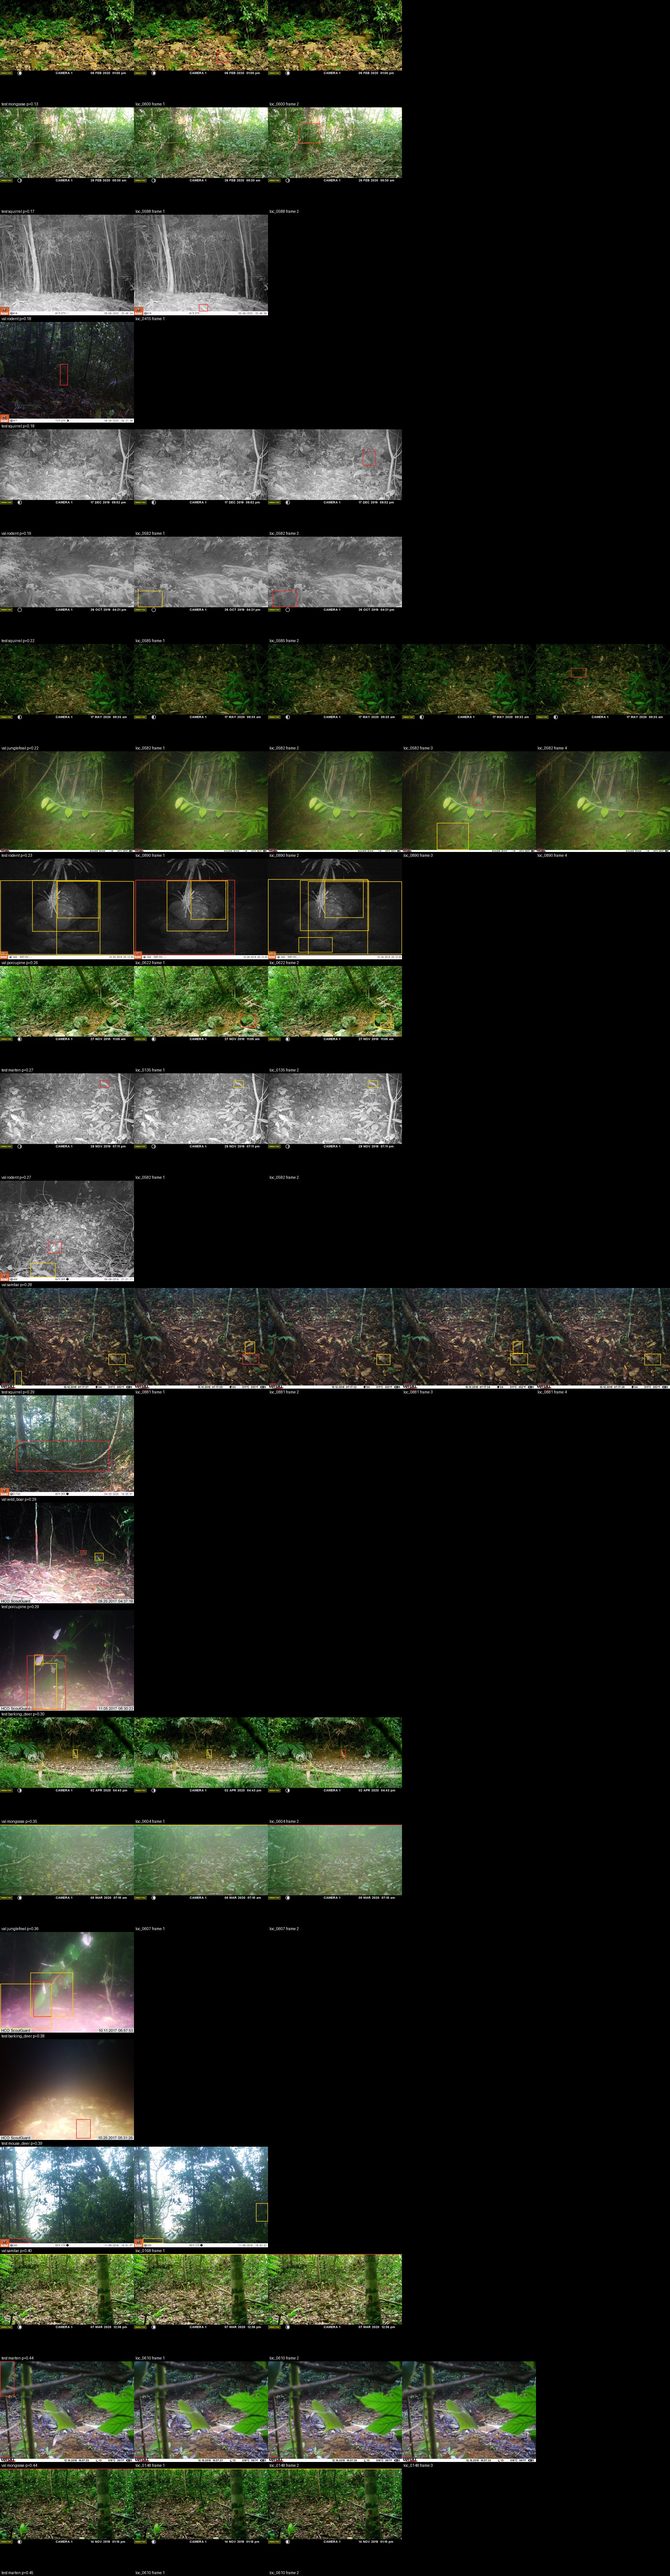
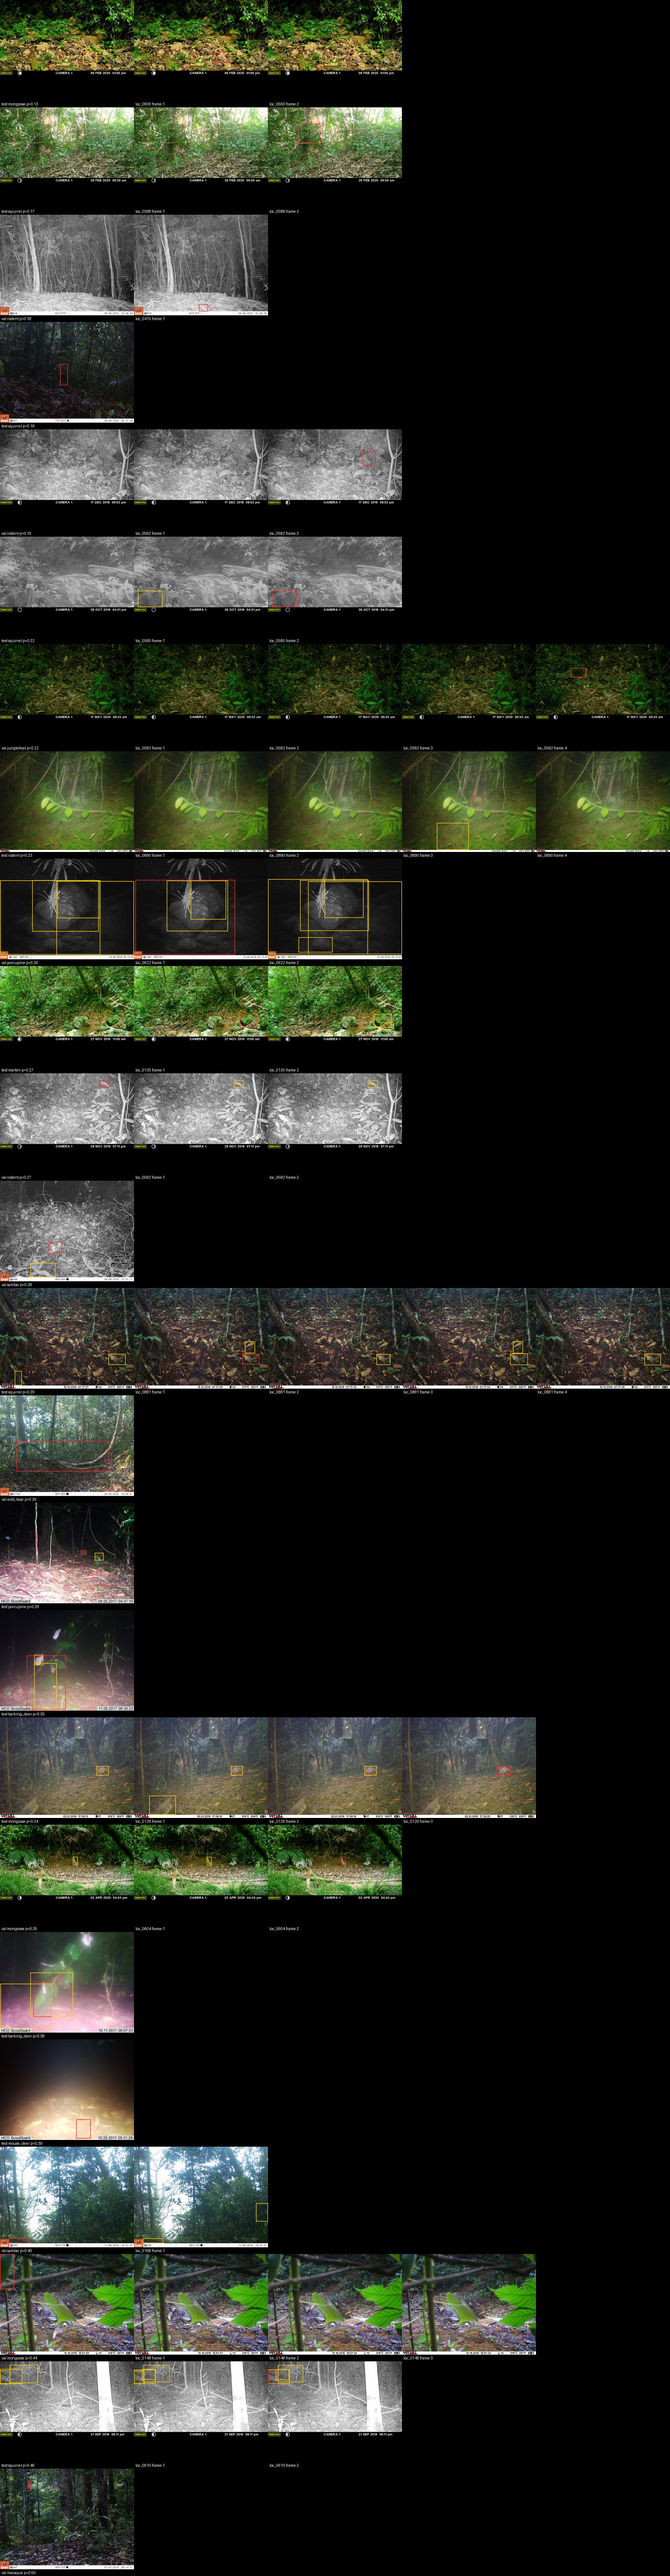
drop leftover padding strips from phase 2 crops, redo the numbers
has_area only dropped boxes of exactly zero height. strips ending a
pixel or two inside the frame survived: full-width, under 16 px tall,
conf <= 0.17, 1,531 of 23,643 crops (192 in training background, 45 in
scored test, 284 in event eval). 06 now drops boxes with a side under
16 px, after crop ids are set so real crops keep theirs.

crop scores barely move (probe macro f1 0.887 -> 0.886, convnext 0.776
-> 0.775 without retraining): the strips were easy background. events
do move: in 4 animal test events a strip was the only box (no-box 25 ->
29, max recall 94% -> 93%), and 6 of the 30 "classifier rejected"
misses were strips, so detector misses are 59 of 83, not 53. at 90%
recall speciesnet now removes 80.7% of empties vs the probe's 74.0%.

the review export now refuses to run if it would move reviewed ids to
other crops (re-exporting from the new predictions would hit 121).

Changed region(s): [[0.0, 0.875, 0.8089, 1.0], [0.0, 0.6562, 0.8089, 0.75]]

diff --git a/scripts/22_export_review.py b/scripts/22_export_review.py
@@ -42,6 +42,7 @@ import numpy as np
 import pandas as pd
 
 from ghats.config import load_config
+from ghats.crops import MIN_BOX_PX, box_side_px
 from ghats.review import audit_ranks, shortlists, species_uncertainty, split_catalogue
 
 SCHEMA = """
@@ -106,12 +107,9 @@ def species_rows(cfg: dict) -> pd.DataFrame:
     )
 
 
-# Shorter box side in frame pixels below which a box is a padding phantom. The phantoms in the
-# Phase 2 test crops are all under 4 px; the smallest real box is far above 16.
-PHANTOM_PX = 8
-
-
 def phantom_boxes(frame_paths: pd.Series, boxes: pd.Series) -> np.ndarray:
+    """Padding phantoms (see ghats.crops.MIN_BOX_PX); crops made before 06 dropped them
+    are still in older predictions."""
     from PIL import Image
 
     out = []
@@ -119,10 +117,8 @@ def phantom_boxes(frame_paths: pd.Series, boxes: pd.Series) -> np.ndarray:
         if not isinstance(f, str) or not isinstance(b, str):
             out.append(False)
             continue
-        x1, y1, x2, y2 = json.loads(b)
         with Image.open(f) as im:  # reads the header only
-            w, h = im.size
-        out.append(min((x2 - x1) * w, (y2 - y1) * h) < PHANTOM_PX)
+            out.append(box_side_px(json.loads(b), *im.size) < MIN_BOX_PX)
     return np.array(out)
 
 
@@ -188,6 +184,21 @@ def reid_tables(cfg: dict) -> tuple[pd.DataFrame, pd.DataFrame, pd.DataFrame]:
     return catalogue, items_df, cands
 
 
+def check_reviewed_ids(con: sqlite3.Connection, table: str, reviews: str, new: pd.DataFrame) -> None:
+    """Reviews point at item ids; stop if a re-export would move a reviewed id to another crop."""
+    have = {r[0] for r in con.execute("SELECT name FROM sqlite_master WHERE type = 'table'")}
+    if table not in have or reviews not in have:
+        return
+    old = dict(con.execute(f"SELECT id, crop_id FROM {table} WHERE id IN (SELECT item_id FROM {reviews})").fetchall())
+    now = dict(zip(new["id"], new["crop_id"].astype(str)))
+    moved = [i for i, c in old.items() if now.get(i) != c]
+    if moved:
+        raise SystemExit(
+            f"{len(moved)} reviewed {table} ids would point at different crops after this export "
+            f"(first: {moved[:5]}). Back up {reviews} and remap it by crop_id first."
+        )
+
+
 def main() -> int:
     ap = argparse.ArgumentParser(description=__doc__, formatter_class=argparse.RawDescriptionHelpFormatter)
     ap.add_argument("--config", default="configs/phase5.yaml")
@@ -205,6 +216,9 @@ def main() -> int:
     db = Path(cfg["db"])
     db.parent.mkdir(parents=True, exist_ok=True)
     con = sqlite3.connect(db)
+    species.insert(0, "id", np.arange(1, len(species) + 1))
+    check_reviewed_ids(con, "species_items", "species_reviews", species)
+    check_reviewed_ids(con, "reid_items", "reid_reviews", items)
     with con:
         con.executescript(SCHEMA)
         species.to_sql("species_items", con, if_exists="append", index=False)

diff --git a/scripts/06_make_crops.py b/scripts/06_make_crops.py
@@ -28,7 +28,7 @@ from PIL import Image
 from tqdm import tqdm
 
 from ghats.config import load_config
-from ghats.crops import BACKGROUND, SPLITS, crop_box, label_boxes, split_locations
+from ghats.crops import BACKGROUND, MIN_BOX_PX, SPLITS, box_side_px, crop_box, label_boxes, split_locations
 
 
 def load_animal_boxes(path: Path, max_per_image: int) -> pd.DataFrame:
@@ -43,6 +43,11 @@ def load_animal_boxes(path: Path, max_per_image: int) -> pd.DataFrame:
             for k, d in enumerate(animal[:max_per_image]):
                 rows.append({"image_id": str(rec["image_id"]), "box": k, "conf": d["conf"], "bbox": d["bbox"]})
     return pd.DataFrame(rows).drop_duplicates(["image_id", "box"], keep="last")
+
+
+def frame_size(path: str) -> tuple[int, int]:
+    with Image.open(path) as im:  # reads the header only
+        return im.size
 
 
 def write_crops(path: str, crops: list[tuple[str, list[float]]], out_dir: Path, c: dict) -> int:
@@ -87,6 +92,14 @@ def main() -> int:
     crops = label_boxes(boxes, c["min_conf"], c["train_min_conf"])
     crops["split"] = crops["location"].map(splits)
     crops["crop_id"] = crops["image_id"] + "_" + crops["box"].astype(str)
+    # Drop padding phantoms only now, after the ids are set: box numbers are confidence ranks
+    # within a frame, and renumbering would point real crops at a phantom's saved image.
+    with ThreadPoolExecutor(args.threads) as pool:
+        sizes = dict(zip(crops["local_path"].unique(), pool.map(frame_size, crops["local_path"].unique())))
+    side = [box_side_px(b, *sizes[p]) for b, p in zip(crops["bbox"], crops["local_path"])]
+    phantom = pd.Series(side, index=crops.index) < MIN_BOX_PX
+    print(f"dropped {phantom.sum():,} padding-phantom boxes (shorter side < {MIN_BOX_PX} px)")
+    crops = crops[~phantom]
 
     out = Path(args.out)
     img_dir = out / "images"

diff --git a/src/ghats/crops.py b/src/ghats/crops.py
@@ -21,6 +21,12 @@ import pandas as pd
 
 BACKGROUND = "background"
 SPLITS = ("train", "val", "test")
+# Shorter box side, in frame pixels, below which a box is a letterbox-padding phantom.
+# has_area() drops the boxes that clamp to zero height, but ones that end a pixel or two
+# inside the frame survive: full-width strips along the top or bottom edge, conf <= 0.17.
+# In the Phase 2 detections every animal box under 16 px is one of those; nothing that
+# small could be classified anyway.
+MIN_BOX_PX = 16
 
 
 def crop_box(bbox: Sequence[float], w: int, h: int, pad: float = 0.1, min_side: int = 32) -> tuple[int, int, int, int]:
@@ -36,6 +42,11 @@ def crop_box(bbox: Sequence[float], w: int, h: int, pad: float = 0.1, min_side: 
     left, right = max(0, round(x1 - grow_x)), min(w, round(x2 + grow_x))
     top, bottom = max(0, round(y1 - grow_y)), min(h, round(y2 + grow_y))
     return left, top, max(right, left + 1), max(bottom, top + 1)
+
+
+def box_side_px(bbox: Sequence[float], w: int, h: int) -> float:
+    """Shorter side of a normalised [x1, y1, x2, y2] box, in pixels of a w x h frame."""
+    return min((bbox[2] - bbox[0]) * w, (bbox[3] - bbox[1]) * h)
 
 
 def label_boxes(boxes: pd.DataFrame, min_conf: float, train_min_conf: float) -> pd.DataFrame:

diff --git a/tests/test_crops.py b/tests/test_crops.py
@@ -1,6 +1,13 @@
 import pandas as pd
 
-from ghats.crops import BACKGROUND, crop_box, label_boxes, split_locations
+from ghats.crops import BACKGROUND, MIN_BOX_PX, box_side_px, crop_box, label_boxes, split_locations
+
+
+def test_padding_strip_is_below_min_box_size():
+    # Real case: a full-width strip one pixel tall along the top of a 4608 x 2592 frame.
+    assert box_side_px([0.0002, 0.0, 0.9973, 0.0003], 4608, 2592) < MIN_BOX_PX
+    # A small animal far from the camera is still kept.
+    assert box_side_px([0.50, 0.50, 0.51, 0.52], 3840, 2880) >= MIN_BOX_PX
 
 
 class TestCropBox:

diff --git a/reports/phase2/event_eval.md b/reports/phase2/event_eval.md
@@ -3,57 +3,57 @@
 Test: 566 events (416 animal, 150 empty) from 114 cameras not used in training.
 Each threshold is the highest that keeps the target share of animal events on val, applied unchanged to test.
 
-25 of 416 animal test events have no detector box at or above the crop floor, so no method can keep more than 94.0% of them. Targets above what val allows are marked out of reach.
+29 of 416 animal test events have no detector box at or above the crop floor, so no method can keep more than 93.0% of them. Targets above what val allows are marked out of reach.
 
 Cells: share of empty test events removed (test recall of animal events in brackets).
 Thresholds, workload and missed counts are in event_eval.csv.
 
 | method, events scored by | 98% target | 95% target | 90% target |
 |---|---|---|---|
-| detector, best box | out of reach | out of reach | 54.7% (92.3%) |
-| detector, 2nd box | out of reach | out of reach | 49.3% (89.9%) |
-| ours, best box | out of reach | out of reach | 69.3% (89.9%) |
-| ours, 2nd box | out of reach | out of reach | 56.7% (89.9%) |
-| ours x detector, best box | out of reach | out of reach | 60.0% (92.1%) |
-| ours x detector, 2nd box | out of reach | out of reach | 55.3% (89.4%) |
-| probe, best box | out of reach | out of reach | 74.0% (90.9%) |
-| probe, 2nd box | out of reach | out of reach | 53.3% (91.8%) |
+| detector, best box | out of reach | out of reach | 55.3% (91.1%) |
+| detector, 2nd box | out of reach | out of reach | 52.7% (90.6%) |
+| ours, best box | out of reach | out of reach | 70.7% (89.9%) |
+| ours, 2nd box | out of reach | out of reach | 58.7% (90.4%) |
+| ours x detector, best box | out of reach | out of reach | 63.3% (91.1%) |
+| ours x detector, 2nd box | out of reach | out of reach | 57.3% (89.4%) |
+| probe, best box | out of reach | out of reach | 74.0% (91.3%) |
+| probe, 2nd box | out of reach | out of reach | 54.0% (92.1%) |
 | probe x detector, best box | out of reach | out of reach | 67.3% (91.6%) |
-| probe x detector, 2nd box | out of reach | out of reach | 52.0% (91.1%) |
-| speciesnet, best box | out of reach | out of reach | 76.7% (91.3%) |
-| speciesnet, 2nd box | out of reach | out of reach | 66.7% (90.1%) |
-| speciesnet x detector, best box | out of reach | out of reach | 69.3% (91.8%) |
-| speciesnet x detector, 2nd box | out of reach | out of reach | 64.7% (90.9%) |
-| ind-ads, best box | out of reach | out of reach | 63.3% (90.9%) |
-| ind-ads, 2nd box | out of reach | out of reach | 46.0% (92.1%) |
-| ind-ads x detector, best box | out of reach | out of reach | 60.7% (91.8%) |
-| ind-ads x detector, 2nd box | out of reach | out of reach | 49.3% (90.9%) |
+| probe x detector, 2nd box | out of reach | out of reach | 55.3% (91.3%) |
+| speciesnet, best box | out of reach | out of reach | 80.7% (90.9%) |
+| speciesnet, 2nd box | out of reach | out of reach | 64.7% (91.3%) |
+| speciesnet x detector, best box | out of reach | out of reach | 73.3% (91.3%) |
+| speciesnet x detector, 2nd box | out of reach | out of reach | 65.3% (90.6%) |
+| ind-ads, best box | out of reach | out of reach | 59.3% (91.1%) |
+| ind-ads, 2nd box | out of reach | out of reach | 50.7% (91.8%) |
+| ind-ads x detector, best box | out of reach | out of reach | 62.0% (91.8%) |
+| ind-ads x detector, 2nd box | out of reach | out of reach | 52.7% (90.6%) |
 
 ## Test recall by species group at the 90% threshold
 
 | group | detector, best box | detector, 2nd box | ours, best box | ours, 2nd box | probe, best box | probe, 2nd box | speciesnet, best box | speciesnet, 2nd box | ind-ads, best box | ind-ads, 2nd box |
 |---|---|---|---|---|---|---|---|---|---|---|
-| barking_deer | 100% | 94% | 94% | 94% | 97% | 97% | 97% | 97% | 97% | 100% |
+| barking_deer | 100% | 97% | 94% | 97% | 97% | 100% | 97% | 100% | 100% | 100% |
 | bear | 100% | 100% | 100% | 100% | 100% | 100% | 100% | 100% | 100% | 100% |
-| civet | 95% | 87% | 95% | 95% | 95% | 95% | 95% | 92% | 95% | 95% |
+| civet | 95% | 92% | 95% | 95% | 95% | 95% | 95% | 95% | 95% | 95% |
 | junglefowl | 96% | 92% | 96% | 96% | 96% | 96% | 96% | 96% | 96% | 96% |
-| macaque | 90% | 90% | 90% | 90% | 90% | 90% | 90% | 90% | 90% | 90% |
-| marten | 85% | 85% | 74% | 78% | 74% | 81% | 81% | 81% | 78% | 78% |
-| mongoose | 96% | 96% | 93% | 96% | 96% | 96% | 96% | 96% | 100% | 89% |
+| macaque | 87% | 87% | 90% | 90% | 90% | 90% | 90% | 90% | 90% | 90% |
+| marten | 78% | 78% | 74% | 74% | 78% | 78% | 74% | 78% | 78% | 74% |
+| mongoose | 96% | 100% | 93% | 96% | 96% | 100% | 96% | 96% | 100% | 93% |
 | mouse_deer | 98% | 100% | 98% | 100% | 98% | 100% | 100% | 95% | 98% | 100% |
-| pangolin | 90% | 90% | 90% | 70% | 90% | 90% | 90% | 80% | 90% | 90% |
-| porcupine | 96% | 93% | 93% | 89% | 96% | 96% | 96% | 89% | 93% | 96% |
-| rodent | 82% | 79% | 85% | 82% | 85% | 82% | 85% | 82% | 82% | 85% |
+| pangolin | 90% | 90% | 90% | 90% | 90% | 90% | 90% | 90% | 90% | 90% |
+| porcupine | 96% | 96% | 93% | 93% | 96% | 96% | 96% | 96% | 93% | 96% |
+| rodent | 82% | 82% | 85% | 82% | 85% | 82% | 85% | 82% | 85% | 85% |
 | sambar | 100% | 97% | 100% | 100% | 100% | 100% | 100% | 100% | 100% | 100% |
 | small_cat | 77% | 69% | 77% | 77% | 77% | 77% | 77% | 77% | 77% | 77% |
-| squirrel | 77% | 69% | 62% | 65% | 65% | 77% | 65% | 77% | 69% | 85% |
-| wild_boar | 92% | 94% | 92% | 92% | 92% | 89% | 89% | 86% | 89% | 89% |
+| squirrel | 73% | 73% | 62% | 65% | 69% | 77% | 65% | 77% | 65% | 81% |
+| wild_boar | 89% | 92% | 92% | 89% | 92% | 89% | 89% | 89% | 89% | 89% |
 
-## Crop-level F1 on test, classes every model can name (2,139 crops)
+## Crop-level F1 on test, classes every model can name (2,094 crops)
 
 | class | ours | probe | speciesnet | ind-ads |
 |---|---|---|---|---|
-| background | 0.86 | 0.92 | 0.91 | 0.89 |
+| background | 0.85 | 0.92 | 0.90 | 0.88 |
 | barking_deer | 0.82 | 0.93 | 0.95 | 0.87 |
 | bear | 0.90 | 0.95 | 0.88 | 0.55 |
 | civet | 0.78 | 0.87 | 0.86 | 0.55 |
@@ -62,8 +62,8 @@ Thresholds, workload and missed counts are in event_eval.csv.
 | mongoose | 0.51 | 0.93 | 0.94 | 0.41 |
 | pangolin | 0.84 | 0.90 | 0.86 | 0.51 |
 | porcupine | 0.82 | 0.93 | 0.89 | 0.65 |
-| sambar | 0.77 | 0.94 | 0.99 | 0.87 |
+| sambar | 0.77 | 0.95 | 0.99 | 0.88 |
 | small_cat | 0.70 | 0.77 | 0.63 | 0.25 |
 | wild_boar | 0.91 | 0.96 | 0.98 | 0.84 |
 
-Macro F1: ours 0.812, probe 0.920, speciesnet 0.903, ind-ads 0.641
+Macro F1: ours 0.810, probe 0.920, speciesnet 0.902, ind-ads 0.641

diff --git a/README.md b/README.md
@@ -143,6 +143,11 @@ Phase 2 trains a classifier on detector crops anyway, so it gets an extra
   confidence is noise (event AUC 0.53), but it gave every event, empty or not, a
   score of ~0.08. The old "98.8% recall at 0.06" came from that, not from real
   boxes. I found it while looking at Phase 2 misses (`scripts/10_miss_gallery.py`).
+  The first fix only dropped boxes of exactly zero height. Strips that end a pixel
+  or two inside the frame survived, and I only caught them when the reviewer
+  dashboard drew a 1-pixel box along the top of a photo: 1,531 of 23,643 Phase 2
+  crops. Boxes with a side under 16 px are now dropped too (every animal box that
+  small was one of these strips).
 - **The detector runs in eval mode, in batches.** PyTorch-Wildlife 1.3's
   `single_image_detection()` for the MIT model reloads the checkpoint on every call
   and leaves the network in training mode, so BatchNorm normalises each image with
@@ -182,28 +187,32 @@ on val macro F1.
 
 ### Results
 
-**Crops** (test, 2,383 crops): macro F1 **0.776**, accuracy 0.833. Best: junglefowl 0.93,
+**Crops** (test, 2,338 crops): macro F1 **0.775**, accuracy 0.830. Best: junglefowl 0.93,
 wild boar 0.91, bear 0.90. Worst: squirrel 0.46 and mongoose 0.49, small classes with
 20–50 test crops each. Background F1 is 0.84. Details in
-[`classifier_summary.md`](reports/phase2/classifier_summary.md).
+[`classifier_summary.md`](reports/phase2/classifier_summary.md) (written before the
+padding strips were removed, so it still counts 2,383 crops; the model was not retrained
+without the 192 strips in its training background, and on the cleaned test set its scores
+moved by 0.001-0.003).
 
 **Empty-event filtering** (test, 566 events from unseen cameras; each threshold is picked
 on val and applied unchanged to test):
 
 | Keep 90% of animal events | Empty events removed |
 |---|---|
-| Detector confidence (Phase 1 rule) | 54.7% |
-| Classifier: P(not background) of the best box | **69.3%** |
-| Classifier × detector | 60.0% |
+| Detector confidence (Phase 1 rule) | 55.3% |
+| Classifier: P(not background) of the best box | **70.7%** |
+| Classifier × detector | 63.3% |
 
 The classifier removes about 15 points more empty events at the same recall. Stricter
-targets are out of reach for every method: 25 of 416 animal test events (6%) have no
-detector box at all, so nothing downstream can recover them. Full table, including
+targets are out of reach for every method: 29 of 416 animal test events (7%) have no
+detector box at all, so nothing downstream can recover them. (It was 25 before the
+leftover padding strips were removed: in 4 events a strip was the only "box".) Full table, including
 per-group recall, in [`event_eval.md`](reports/phase2/event_eval.md).
 
 **Where it still fails** ([`missed_events.jpg`](reports/phase2/missed_events.jpg)).
-At the 90% threshold, 83 val/test animal events are dropped. 53 of them never had a box
-(a detector miss), and 30 had boxes the classifier called background. The detector is
+At the 90% threshold, 83 val/test animal events are dropped. 59 of them never had a box
+(a detector miss), and 24 had boxes the classifier called background. The detector is
 the bigger bottleneck, and it is worst on small animals: rodents, squirrels and martens.
 
 ### Against off-the-shelf classifiers
@@ -214,11 +223,11 @@ val/test boxes and maps their labels onto my groups:
 65M+ training images) and the Addax Data Science Central India model (IND-ADS, 40 labels,
 CC-BY-NC, used for evaluation only).
 
-| Model | Macro F1, 12 shared classes (2,139 test crops) | Empty events removed at 90% recall |
+| Model | Macro F1, 12 shared classes (2,094 test crops) | Empty events removed at 90% recall |
 |---|---|---|
-| Mine (ConvNeXt-Tiny, ~10k crops) | 0.812 | 69.3% |
-| SpeciesNet | **0.903** | **76.7%** |
-| IND-ADS (Central India) | 0.641 | 63.3% |
+| Mine (ConvNeXt-Tiny, ~10k crops) | 0.810 | 70.7% |
+| SpeciesNet | **0.902** | **80.7%** |
+| IND-ADS (Central India) | 0.641 | 59.3% |
 
 **SpeciesNet wins, with a caveat.** Its training data includes public camera-trap
 repositories, and I couldn't confirm whether SWG was among them. If it was, it has seen
@@ -236,17 +245,17 @@ takes its pooled 1,280-d features for every crop, and fits a logistic regression
 train cameras only. This is the same recipe the Central India model uses, just trained
 on my groups and cameras. It takes ~15 minutes on the 3050, mostly feature extraction.
 
-| Model | Macro F1, all 16 classes (2,383 test crops) | Macro F1, 12 shared classes | Empty events removed at 90% recall |
+| Model | Macro F1, all 16 classes (2,338 test crops) | Macro F1, 12 shared classes | Empty events removed at 90% recall |
 |---|---|---|---|
-| Mine (ConvNeXt-Tiny, trained end to end) | 0.776 | 0.812 | 69.3% |
-| **SpeciesNet features + my head** | **0.887** | **0.920** | 74.0% |
-| SpeciesNet off the shelf | n/a | 0.903 | 76.7% |
+| Mine (ConvNeXt-Tiny, trained end to end) | 0.775 | 0.810 | 70.7% |
+| **SpeciesNet features + my head** | **0.886** | **0.920** | 74.0% |
+| SpeciesNet off the shelf | n/a | 0.902 | **80.7%** |
 
 The probe is the best species classifier here, ahead even of SpeciesNet's own head on
 the shared classes. The biggest gains over my ConvNeXt are on the classes I had the least
-data for: mongoose 0.49 → 0.91, squirrel 0.46 → 0.65, sambar 0.77 → 0.94. For filtering
-empty events it is level with SpeciesNet (74.0% vs 76.7% is within the ±6 point noise of
-150 empty test events). Details in
+data for: mongoose 0.49 → 0.91, squirrel 0.46 → 0.64, sambar 0.77 → 0.95. For filtering
+empty events SpeciesNet is ahead (80.7% vs 74.0%), though the gap is about the size of the
+±6 point noise of 150 empty test events. Details in
 [`classifier_summary_probe.md`](reports/phase2/classifier_summary_probe.md).
 
 The SWG caveat still applies: if SpeciesNet's backbone was trained on these cameras, the

diff --git a/reports/phase2/classifier_summary_probe.md b/reports/phase2/classifier_summary_probe.md
@@ -1,25 +1,25 @@
 # Phase 2: frozen SpeciesNet features + logistic regression
 
-Head trained on 9,907 train-camera crops, C=0.01 picked on val (val macro F1 0.926).
-Test: 2,383 crops from 106 cameras never seen in training.
+Head trained on 9,715 train-camera crops, C=0.01 picked on val (val macro F1 0.924).
+Test: 2,338 crops from 106 cameras never seen in training.
 
-**Test macro F1 0.887**, accuracy 0.923.
+**Test macro F1 0.886**, accuracy 0.923.
 
 | Class | Test crops | Precision | Recall | F1 |
 |---|---|---|---|---|
-| squirrel | 23 | 0.70 | 0.61 | 0.65 |
+| squirrel | 23 | 0.67 | 0.61 | 0.64 |
 | small_cat | 48 | 1.00 | 0.62 | 0.77 |
 | marten | 41 | 1.00 | 0.66 | 0.79 |
 | rodent | 32 | 0.81 | 0.91 | 0.85 |
 | civet | 110 | 0.92 | 0.82 | 0.87 |
-| background | 464 | 0.86 | 0.95 | 0.90 |
+| background | 419 | 0.85 | 0.95 | 0.90 |
 | pangolin | 20 | 0.86 | 0.95 | 0.90 |
 | mongoose | 46 | 0.93 | 0.89 | 0.91 |
 | macaque | 127 | 0.91 | 0.94 | 0.92 |
 | mouse_deer | 148 | 0.89 | 0.96 | 0.93 |
 | barking_deer | 275 | 0.96 | 0.90 | 0.93 |
 | porcupine | 91 | 0.98 | 0.89 | 0.93 |
-| sambar | 203 | 0.90 | 0.99 | 0.94 |
+| sambar | 203 | 0.91 | 0.99 | 0.95 |
 | bear | 125 | 0.91 | 0.98 | 0.95 |
-| wild_boar | 533 | 0.98 | 0.94 | 0.96 |
-| junglefowl | 97 | 0.99 | 0.97 | 0.98 |
+| wild_boar | 533 | 0.98 | 0.95 | 0.96 |
+| junglefowl | 97 | 1.00 | 0.97 | 0.98 |
